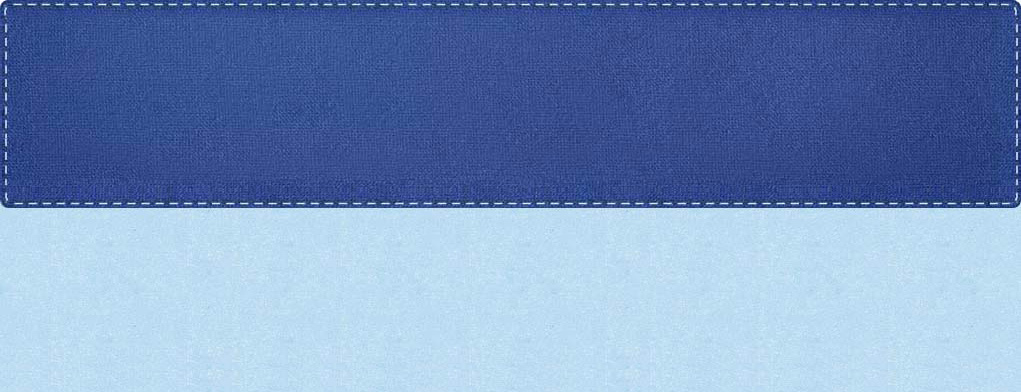
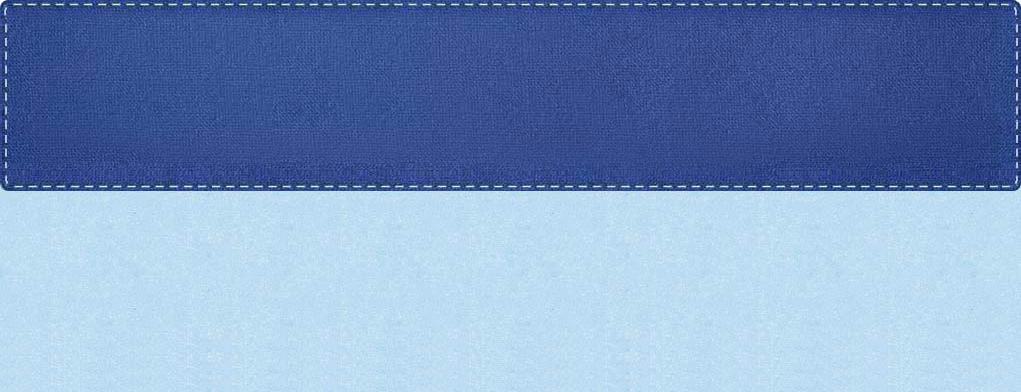
8_23 tweaks

Changed region(s): [[0.0, 0.3367, 1.0, 0.551]]

diff --git a/app/stylesheets/partials/themes/_columnar_szuk.scss b/app/stylesheets/partials/themes/_columnar_szuk.scss
@@ -29,7 +29,7 @@ body.bp {
 
 #header {
   margin: 22px 0 0 0;
-  height:144px;
+  height:156px;
   
   #logo_masthead {
     background: url("/images/ui-logos/_#{$system}_masthead.png") no-repeat;
@@ -253,7 +253,7 @@ ul.social-icons li {
 }
 
 .sub_div_r {
-  width:440px; float:left; margin:12px 0 0 0; border-left:1px dashed white; padding:0 0 0 26px;
+  width:440px; float:left; height:166px; margin:12px 0 22px 0; border-left:1px dashed white; padding:0 0 0 26px;
 }
 .sub_s2 {
   width:100%; float:left;
